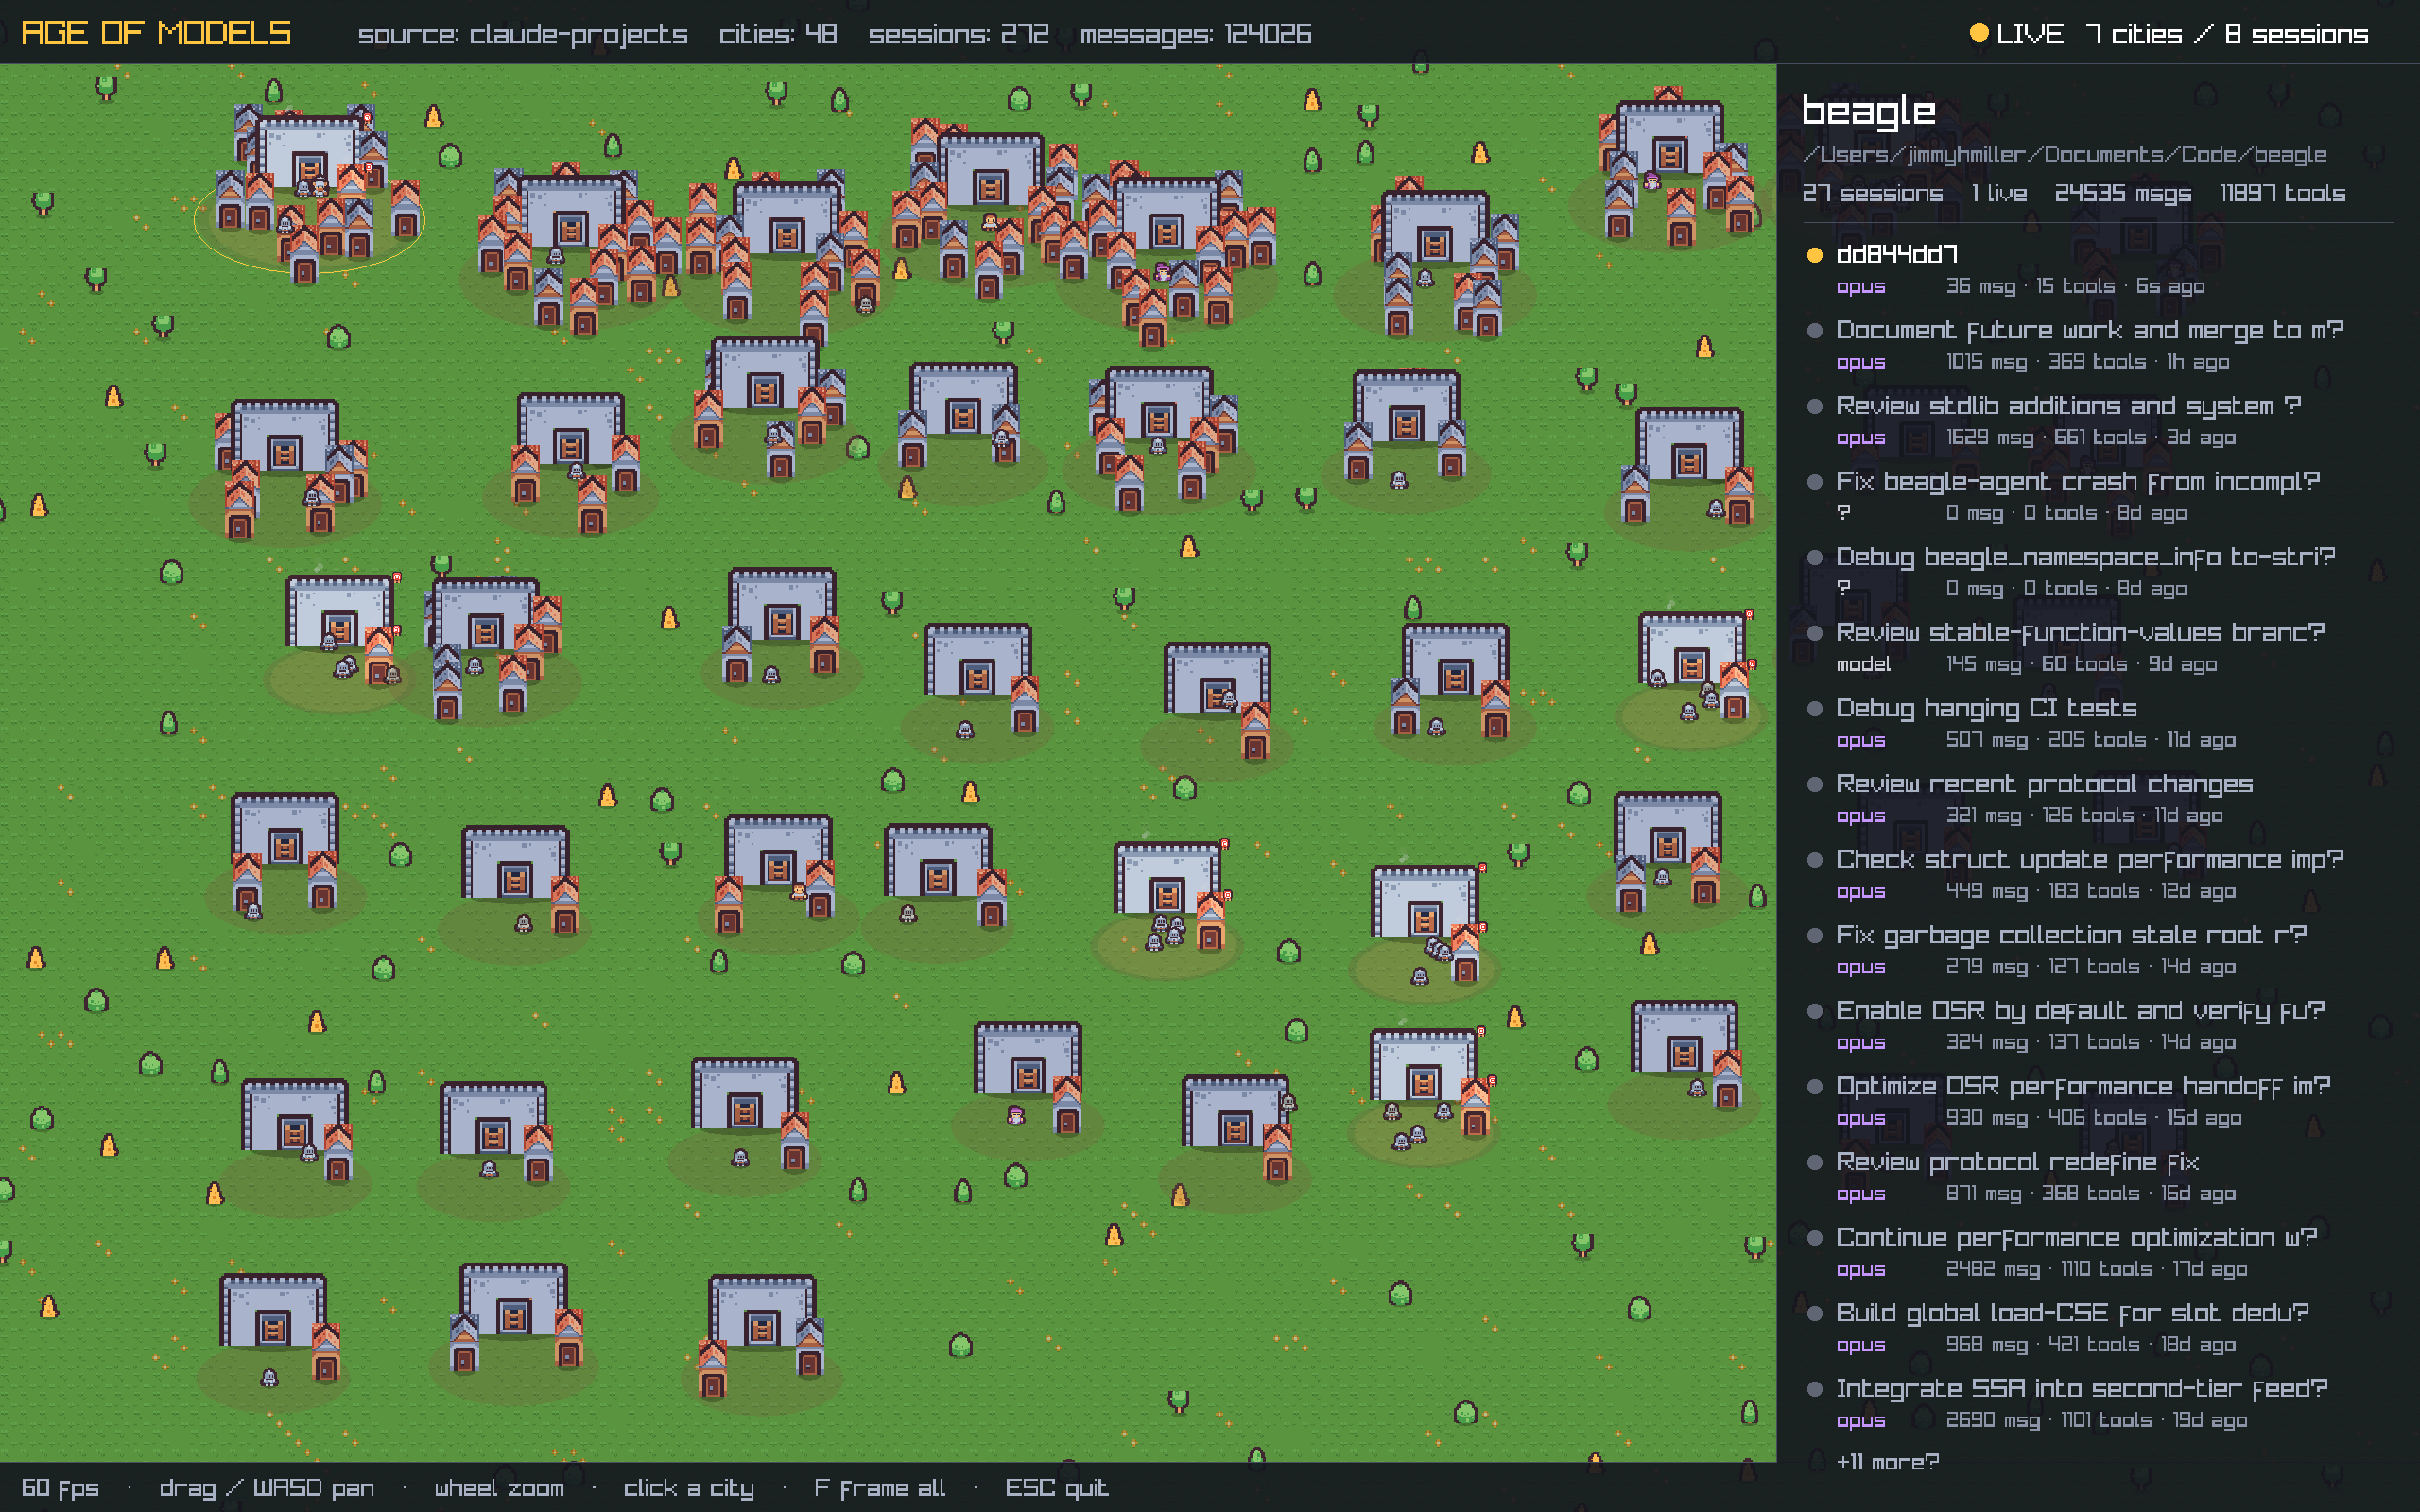
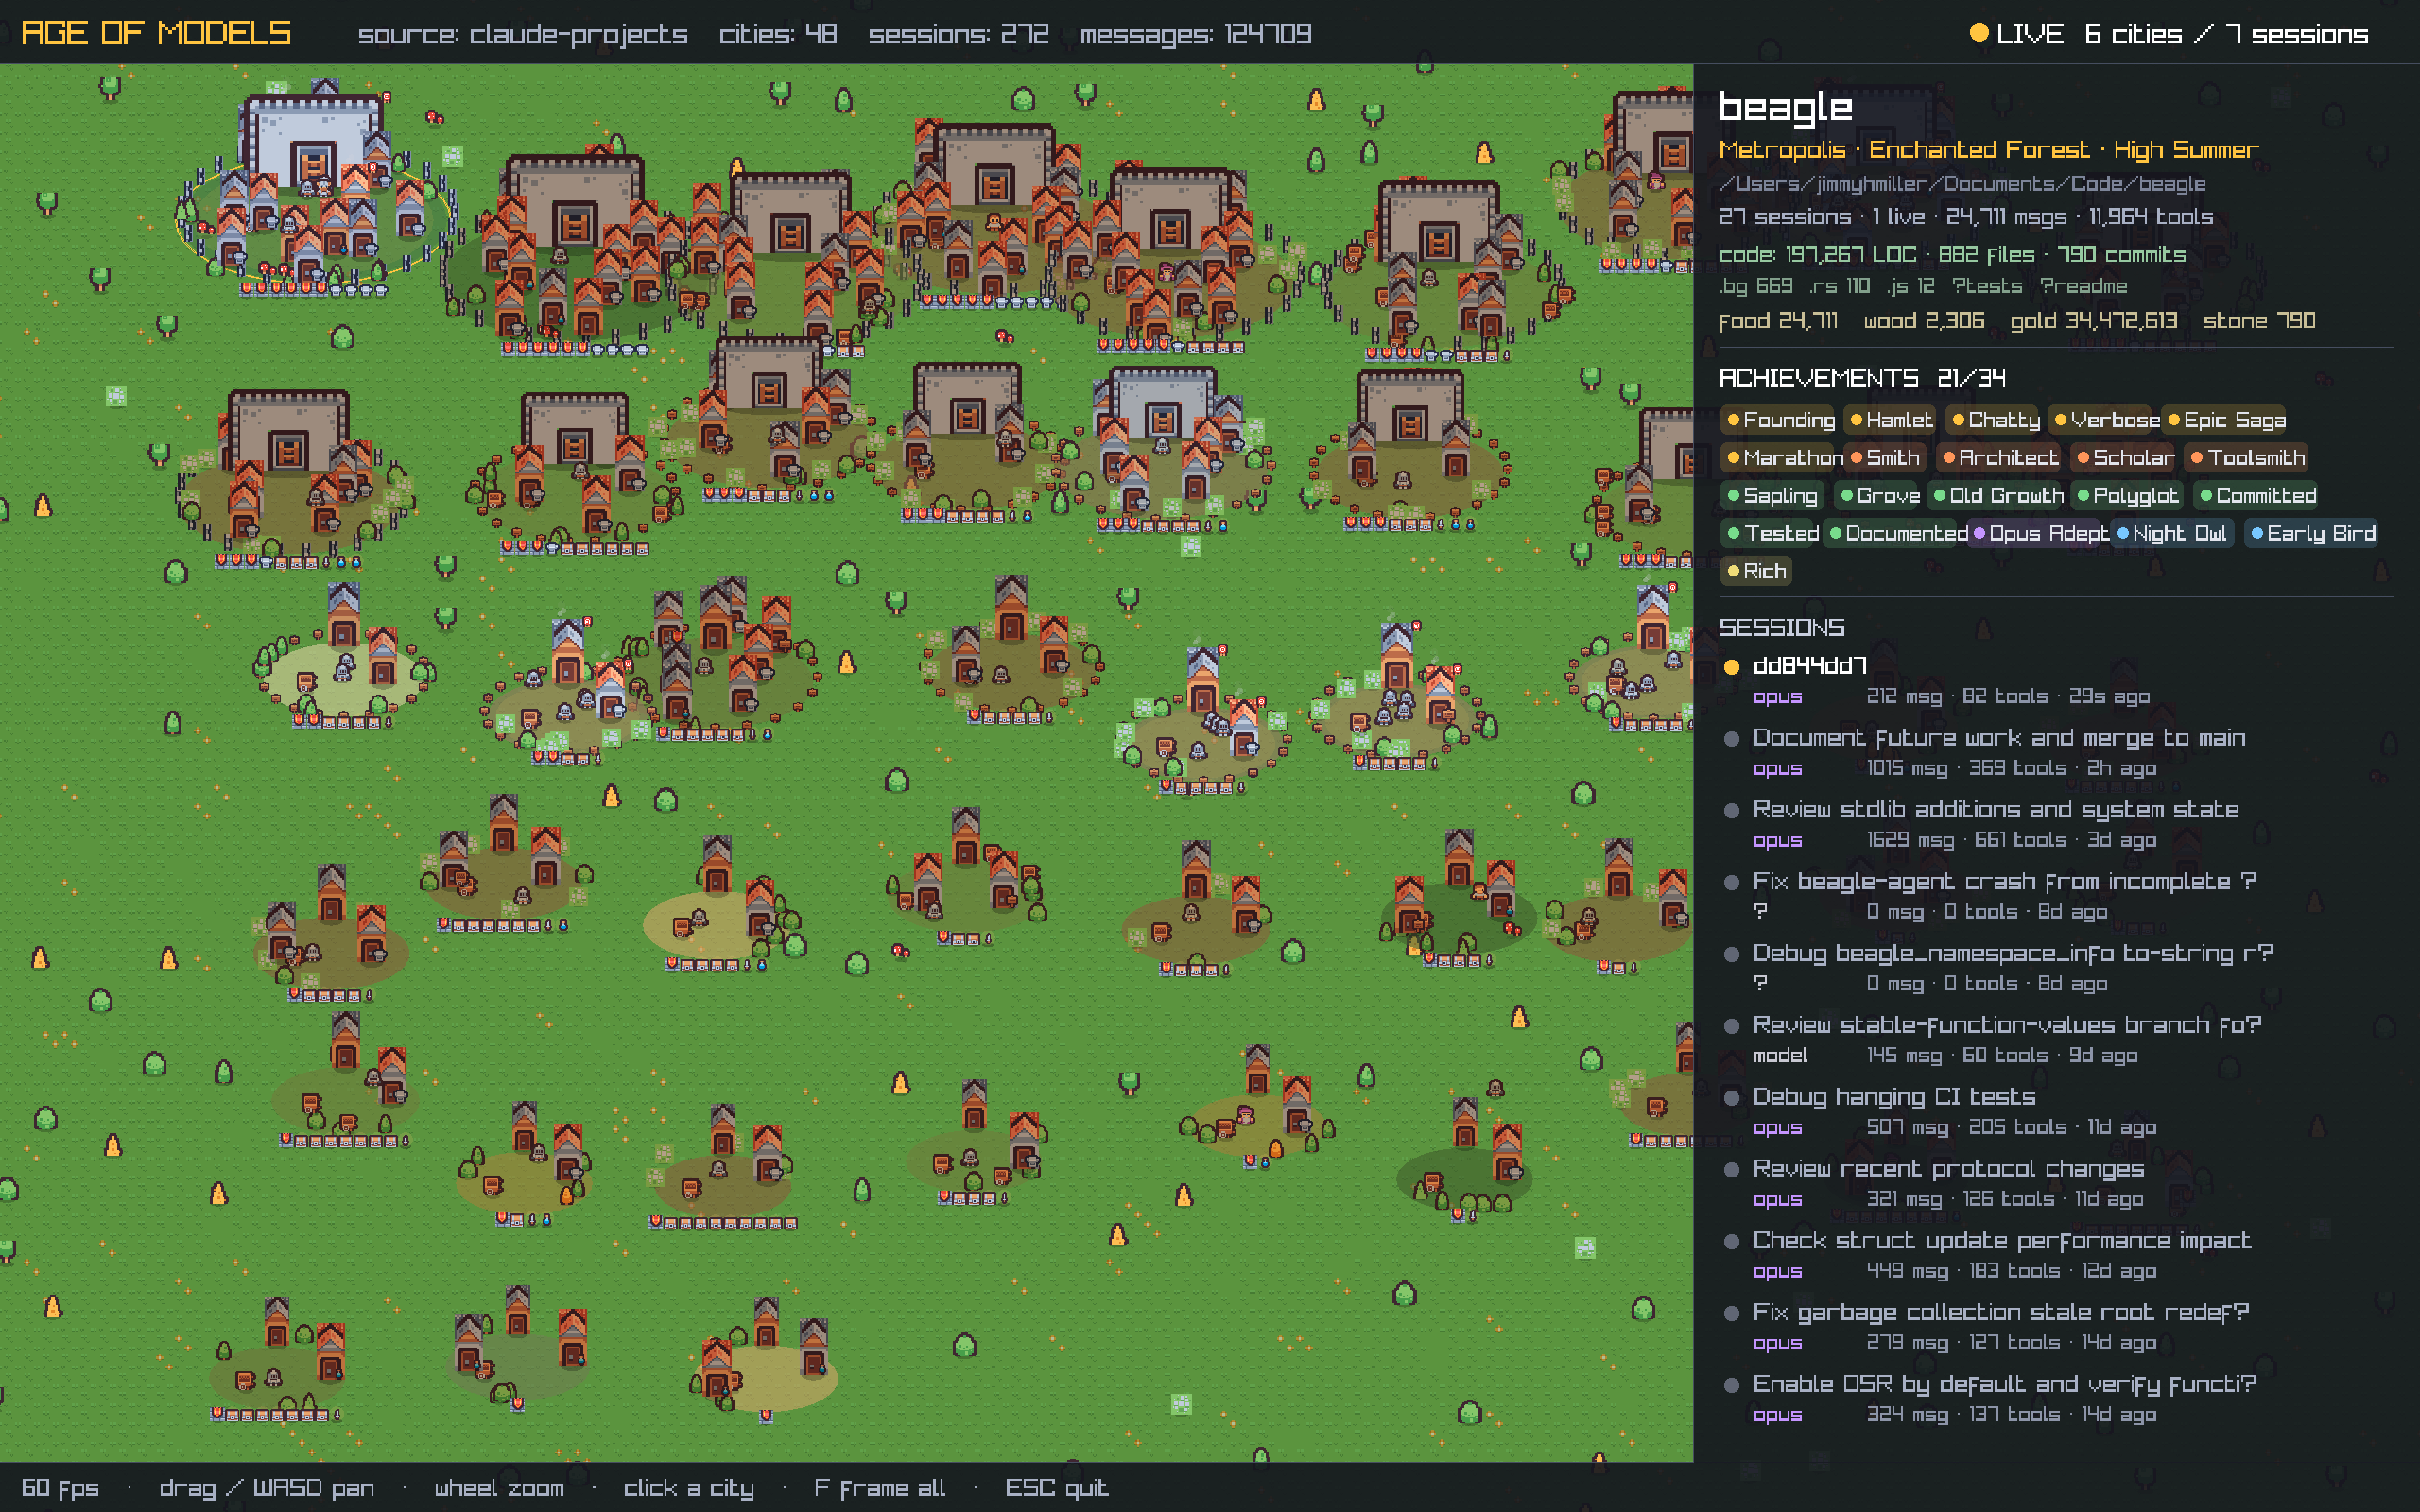
age: document variety systems (tiers/biomes/seasons/achievements) + refresh screenshots

diff --git a/age/README.md b/age/README.md
@@ -124,16 +124,19 @@ Two sources ship today:
 ```
 src/
   data/        the pluggable source layer — the ONLY thing the game reads from
-    mod.rs       WorldSource trait, WorldSnapshot/CityInfo/SessionInfo, SourceRunner (bg thread)
-    claude.rs    ClaudeProjectsSource (reads ~/.claude/projects)
+    mod.rs       WorldSource trait, WorldSnapshot/CityInfo/SessionInfo/ToolCounts/
+                 CodebaseInfo, SourceRunner (bg thread)
+    claude.rs    ClaudeProjectsSource (reads ~/.claude/projects; per-tool/token stats)
+    repo.rs      cheap cached codebase scan (languages, LOC, files, commits, tests)
     mock.rs      MockSource (demo)
+  achievements.rs  the 34-achievement catalog + Metrics, evaluated from real data
   game/
-    mod.rs       World/City/Building/Villager + snapshot->entities + motion
+    mod.rs       World/City/Building/Villager, Tier/Biome/Season, snapshot->entities
   render/
-    mod.rs       camera-space drawing + screen-space HUD/labels/inspector/tooltip
+    mod.rs       camera-space drawing + screen-space HUD/labels/inspector/monuments
     assets.rs    loads the Kenney atlases, names the tiles
   util.rs        time, deterministic RNG/hashing, RFC-3339 parsing (no chrono)
-  main.rs        window, game loop, camera controls, --screenshot mode
+  main.rs        window, game loop, camera controls, --screenshot / --scan modes
 ```
 
 Data lives on a background thread and arrives as immutable snapshots over a channel;